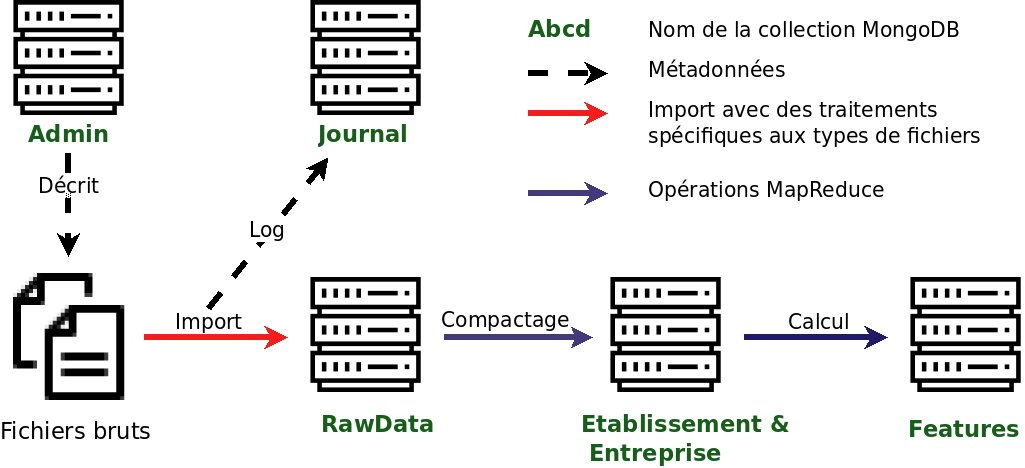
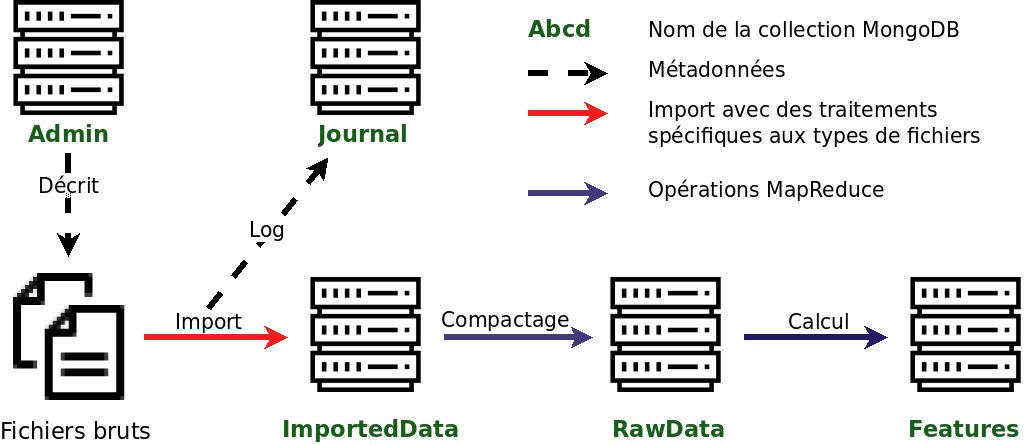
Corrections + début évaluation et reproductibilité

diff --git a/processus-traitement-donnees.md b/processus-traitement-donnees.md
@@ -22,21 +22,23 @@ L'intégration et le stockage de données se fait par mises-à-jours successives
 
   __1- Import__
 
-Ce parcours est représenté avec des flêches pleines. Toutes les nouvelles données sont d'abord importées dans une collection RawData à l'aide de fonctions golang spécifiques à chaque type de fichier. La collection Admin définit quels sont les fichiers à intégrer pour chaque "batch". Le processus d'intégration et les potentielles erreurs d'ouverture de fichier, de lecture, ou de conversion sont logués dans la collection Journal. 
+Ce parcours est représenté avec des flêches pleines. Toutes les nouvelles données sont d'abord importées dans une collection ImportedData à l'aide de fonctions golang spécifiques à chaque type de fichier. La collection Admin définit quels sont les fichiers à intégrer pour chaque "batch". Le processus d'intégration et les potentielles erreurs d'ouverture de fichier, de lecture, ou de conversion sont logués dans la collection Journal. 
 
 Les données ainsi intégrées proviennent de fichiers de différents formats: .csv, .excel, .sas7dbat etc. La façon dont les données sont mises-à-jour peut également être différente, avec des fichiers qui annulent et remplacent, qu'on qualifiera de "fichiers stocks", et des fichiers qui viennent amender, qu'on qualifiera de "fichiers flux". Ceci est configuré dans la collection admin. 
 
 __2- Compactage__
 
-Une fois le batch importées dans la collection RawData, elles vont venir compléter les collections Etablissement et Entreprise, qui comme leur nom l'indique concentrent les informations autour de l'établissement (identifiant: numéro siret) ou de l'entreprise (identifiant: numéro siren). C'est une opération de MapReduce qui est utilisé à cet effet. 
+Une fois le batch importées dans la collection ImportedData, elles vont venir compléter la collection RawData, qui concentrent les informations autour de l'établissement (identifiant: numéro siret) ou de l'entreprise (identifiant: numéro siren). C'est une opération de MapReduce qui est utilisé à cet effet. 
 
-Le processus de compactage consiste à attribuer à chaque objet les nouvelles données qui le concernent, vérifier si ces donneés étaient déjà connues (auquel cas l'objet n'est pas modifié), si les données amendent les informations connues, ou si des informations déjà connues, plus d'actualité, sont à supprimer.
+Le processus de compactage consiste à attribuer à chaque objet les nouvelles données qui le concernent, vérifier si ces donneés étaient déjà connues (auquel cas l'objet n'est pas modifié), si les données amendent les informations connues, ou si des informations connues, qui ne seraient plus d'actualité, sont à supprimer.
 
-Les collections Etablissement et Entreprise conservent la nature des modifications successives à chaque batch, ce qui rend possible de rétablir chaque objet dans son état après l'intégration de n'importe quel batch. 
+La collection RawData conserve l'historique des modifications successives à chaque batch, ce qui rend possible de rétablir chaque objet dans son état après l'intégration de n'importe quel batch.
+
+Si le compactage réussit, la collection ImportedData est purgée. 
 
 __3- Calcul des variables__
 
-Enfin, les données ainsi stockées vont servir au calcul des variables qui alimenteront l'algorithme, stockées dans la collection Features. C'est à nouveau une opération de MapReduce qui permet de fusionner les collections Etablissement et Entreprise et calculer les variables pertinentes. 
+Enfin, les données ainsi stockées vont servir au calcul des variables qui alimenteront l'algorithme, stockées dans la collection Features. C'est à nouveau une opération de MapReduce qui permet de prendre en compte l'historique des données conservées dans RawData et calculer les variables pertinentes. 
 
 ## Workflow classique
 
@@ -193,7 +195,7 @@ http :3000/api/data/reduce batch="1904" key="01234567891011" features="algo2"
 
 Les paramètres optionnels `batch` et `features` spécifient respectivement la clé du dernier batch intégré et le type de calcul à mener. Actuellement, uniquement "algo2" est fonctionnel. 
 Le paramètre facultatif `key` permet de ne faire tourner les calculs que pour un siret particulier, essentiellement pour des raisons de debugging. 
-Les données sont alors importées dans la collection `Etablissement_debug` plutôt que dans la collection `Etablissement`.
+Les données sont alors importées dans la collection `Features_debug` plutôt que dans la collection `Features`.
 
 ## La commande batch/process
 

diff --git a/algorithme-evaluation.md b/algorithme-evaluation.md
@@ -1,0 +1,51 @@
+
+
+# Évaluation de l'algorithme
+## Découpage en échantillon d'entraînement, de validation et de test. 
+
+Lorsque différents algorithmes sont explorés, alors les données sont scindés en échantillons d'entraînement, de validation et de test.
+Par défaut, les proportions de ces échantillons sont 60%, 20% et 20% respectivement. Cette scission est parfaitement reproductible (cf paragraphe consacré)
+
+L'échantillon d'entraînement sert à l'entraînement de différents algorithmes, celui de validation à la comparaison des résultats, et celui de test n'est que rarement sollicité pour avoir une évaluation de la performance réelle de l'algorithme. 
+
+Afin d'éviter de fuite d'information d'un échantillon vers l'autre, les différentes "vues" d'un même établissement à des périodes différentes, et les établissements d'une même entreprise seront toujours regroupées dans le même échantillon. 
+
+Par défaut, **les "signaux forts"**, c'est-à-dire les entreprises pour lesquelles on peut affirmer avec certitudes qu'elles tombent dans la cible d'apprentissage, **sont retirés des échantillons d'évaluation (validation, test)**. 
+Ces entreprises sont les entreprises déjà en procédure collective, ou ayant déjà subi trois mois consécutifs de dette sur les cotisations sociales. 
+L'évaluation donne ainsi une image fidèle de la capacité prédictive de l'algorithme.
+
+## Choix de la métrique
+Après retrait des "signaux forts" (cf paragraphe précédent), la cible à détecter représente à peine 3% de l'échantillon d'entreprise. Il s'agit donc d'un échantillon très biaisé. 
+
+Le choix de l'**aire sous la courbe précision-rappel** comme métrique est compatible avec ce biais. 
+
+## Reproductibilité de l'évaluation. 
+
+Des mesures ont été prises pour la reproductibilité de l'évaluation. 
+
+### Intégration dans R
+D'abord, l'échantillonnage des données importées sous R doit être reproductible. 
+Pour cela, un nombre aléatoire est sauvegardé à même la base de données, pour les données historiques susceptibles d'être échantillonnées, à savoir les données de 2015 et 2016.
+
+Ce nombre aléatoire est généré dans un fichier à partir des données Sirene, puis intégré au même titre que les autres données, ce qui présente plusieurs avantages:
+
+    * La conservation de l'historique des batchs successifs dans DataRaw
+    * Le nombre aléatoire est transféré à la collection Features sous l'intitulé "random_order"
+    * Il est possible d'ajouter de nouvelles entreprises, par exemple issues de nouvelles régions, sans toucher aux anciens champs. Ainsi, même après ajout de ces nouveaux établissements, un échantillonnage sur l'ancien périmètre renverra le même résultat.
+    * Cela offre la possibilité future de compléter avec des informations d'échantillonnage directement dans la base: échantillon de test/validation/entraînement, ou validation croisée etc. 
+    * Un fichier .csv est facilement échangeable d'une personne à l'autre
+
+### Reproductibilité des traitements dans R
+
+La reproductibilité des traitements dans R est assurée par l'utilisation de suites pseudo-random et d'une *seed*. 
+
+C'est notamment le cas dans le découpage en différents échantillons, la préparation des données (ou un bruit peut être appliqué sur les données d'entraînement afin d'éviter le suréchantillonnage), ou encore dans l'entraînement de l'algorithme lorsque celui-ci dépend de composantes aléatoires. 
+
+Il est à noter que pour la constitution des échantillons d'entraînement, de test et de validation, les données sont d'abord triées, afin que le résultat ne dépende pas de leur ordre.
+
+Cette reproducibilité est évidemment uniquement assuré en cas de paramètres identiques (pour l'algorithme, taille de l'échantillon initial, proportions dans les échantillons de validation, de test et de validation). 
+
+
+# Evolution de l'algorithme
+
+TODO
